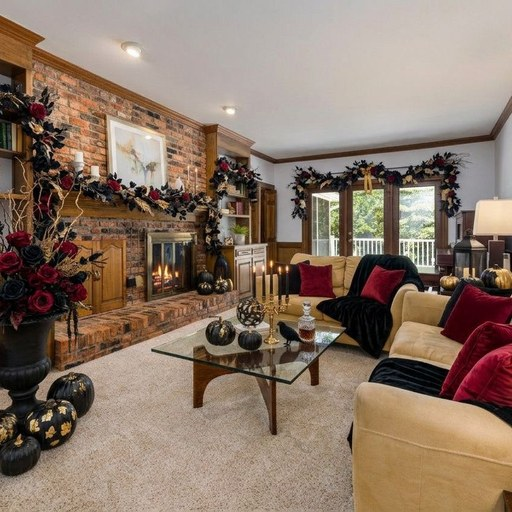
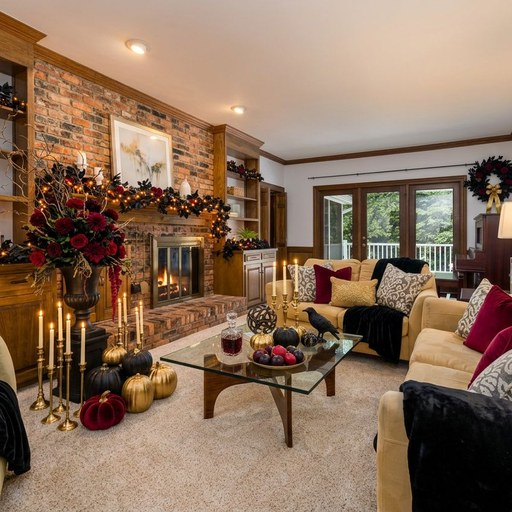
Onboarding Halloween → Christmas → empty room, paywall shows the open season, full test reset (build 117)

diff --git a/app/paywall.tsx b/app/paywall.tsx
@@ -30,6 +30,8 @@ import { planTier, tierRank } from "@/utils/planTier";
 import type { PlanResponse } from "@/types/api";
 import { usePostPurchaseStore } from "@/stores/postPurchaseStore";
 import { useStudioStore } from "@/stores/studioStore";
+import { useCatalogStore } from "@/stores/catalogStore";
+import { seasonMedia, seasonTitle } from "@/components/studio/seasonMedia";
 
 const U = theme.umber;
 
@@ -117,7 +119,13 @@ const SAMPLE_AFTER = require("@/assets/features/paywall_after.jpg");
 const INTRO_WAIT_MS = 1200;
 
 export default function PaywallScreen() {
-    const { t } = useTranslation();
+    const { t, i18n } = useTranslation();
+    // Build 117 (owner, 14 Oct): the paywall's sample is the open season when there is one
+    // (Halloween now, Christmas from 1 Nov), the empty room furnished otherwise.
+    const leadingSeason = useCatalogStore((s) => s.seasons[0] ?? null);
+    const ensureCatalog = useCatalogStore((s) => s.ensureLoaded);
+    // The launch offer can open before Studio ever asked for the catalogue; a cached copy paints at once.
+    useEffect(() => { void ensureCatalog(); }, [ensureCatalog]);
     const plans = useSubscriptionStore((s) => s.plans);
     const fetchPlans = useSubscriptionStore((s) => s.fetchPlans);
     const fetchSubscription = useSubscriptionStore((s) => s.fetchSubscription);
@@ -498,13 +506,15 @@ export default function PaywallScreen() {
     };
 
     // ── The moment that opened the screen ────────────────────────────
-    const proTools: PaywallHeroSpec = {
-        kind: "pro",
-        left: { image: require("@/assets/features/style_after.jpg"), label: t("studio.mode_style_transfer") },
-        // outdoor_card.png is an 8 KB diagonal-stripe placeholder — the
-        // "asset missing" pattern, not a photograph.
-        right: { image: require("@/assets/features/outdoor_after.jpg"), label: t("studio.mode_outdoor") },
-    };
+    // Build 117: the Style Transfer + Outdoor pair is retired from the paywall. Its place —
+    // and the default — is the open season's before/after, or the empty room without one.
+    const seasonPair = leadingSeason ? seasonMedia(leadingSeason) : null;
+    const proTools: PaywallHeroSpec = seasonPair
+        ? { kind: "pair", before: seasonPair.before as never, after: seasonPair.after as never }
+        : { kind: "pair", before: SAMPLE_BEFORE, after: SAMPLE_AFTER };
+    const seasonHeadline = seasonPair && leadingSeason
+        ? { title: seasonTitle(leadingSeason, i18n.language), sub: t("studio.feature_seasonal_desc") }
+        : null;
     const hero: PaywallHeroSpec = (() => {
         if (PRO_TOOL_SOURCES.has(source)) return proTools;
         if (source === SOURCE_FIRST_RESULT && ownAfter) {
@@ -521,8 +531,7 @@ export default function PaywallScreen() {
         if (source === SOURCE_CREDITS_EXHAUSTED && pendingPhoto) {
             return { kind: "photo", image: { uri: pendingPhoto }, chip: t("paywall.chip_your_room"), icon: "image-outline" };
         }
-        if (subscribed) return proTools;
-        return { kind: "pair", before: SAMPLE_BEFORE, after: SAMPLE_AFTER };
+        return proTools;
     })();
 
     /**
@@ -543,7 +552,7 @@ export default function PaywallScreen() {
                 sub: reloadNote,
             };
         }
-        if (PRO_TOOL_SOURCES.has(source)) return { title: t("paywall.two_things_headline"), sub: t("paywall.pro_tools_sub") };
+        if (PRO_TOOL_SOURCES.has(source)) return seasonHeadline ?? { title: t("paywall.hero_default_title"), sub: t("paywall.hero_default_sub") };
         if (source === SOURCE_FIRST_RESULT) return { title: t("paywall.hero_first_title"), sub: t("paywall.hero_first_sub") };
         if (source === SOURCE_RESULT_VIDEO) return { title: t("paywall.hero_video_title"), sub: t("paywall.hero_video_sub") };
         if (source === SOURCE_CREDITS_EXHAUSTED) {
@@ -551,7 +560,7 @@ export default function PaywallScreen() {
                 ? { title: t("paywall.hero_room_title"), sub: t("paywall.hero_room_sub") }
                 : { title: t("paywall.title_out_of_credits"), sub: t("paywall.hero_exhausted_sub") };
         }
-        return { title: t("paywall.hero_default_title"), sub: t("paywall.hero_default_sub") };
+        return seasonHeadline ?? { title: t("paywall.hero_default_title"), sub: t("paywall.hero_default_sub") };
     })();
 
     // ── Money lines ──────────────────────────────────────────────────

diff --git a/app/settings/help.tsx b/app/settings/help.tsx
@@ -7,7 +7,9 @@ import {
   ScrollView,
   TextInput,
   Linking,
+  Alert,
 } from "react-native";
+import * as SecureStore from "expo-secure-store";
 import { SafeAreaView } from "react-native-safe-area-context";
 import { router } from "expo-router";
 import { Ionicons } from "@expo/vector-icons";
@@ -436,11 +438,37 @@ export default function HelpScreen() {
               // The keys mirror app/index.tsx and hooks/useFirstResultPaywall.ts.
               const uid = useAuthStore.getState().user?.id;
               const firstRun = uid ? [clearFlag(`first_open:${uid}`), clearFlag(firstResultOfferFlag(uid))] : [];
-              Promise.all([resetTours(), resetReviewPrompt(), resetPushAsk(), ...firstRun]).then(() => {
-                Haptics.notificationAsync(Haptics.NotificationFeedbackType.Success);
-                setToursReset(true);
-                setTimeout(() => setToursReset(false), 2000);
-              });
+              const softReset = () => Promise.all([resetTours(), resetReviewPrompt(), resetPushAsk(), ...firstRun]);
+              // Build 117 (owner, 14 Oct): a second choice that also forgets the guest identity
+              // (device_key in the Keychain survives a reinstall), so the next screen is onboarding
+              // and a NEW guest account is created. The old account stays on the server; its
+              // gallery is no longer on this phone. Owner-only door, so it asks once, plainly.
+              Haptics.selectionAsync();
+              Alert.alert(
+                t("settings.reset_title", { defaultValue: "Test reset" }),
+                t("settings.reset_body", { defaultValue: "First-run screens, or a full reset that starts as a new guest (this account's gallery leaves this phone)." }),
+                [
+                  { text: t("common.cancel"), style: "cancel" },
+                  {
+                    text: t("settings.reset_first_run", { defaultValue: "First-run screens" }),
+                    onPress: () => softReset().then(() => {
+                      Haptics.notificationAsync(Haptics.NotificationFeedbackType.Success);
+                      setToursReset(true);
+                      setTimeout(() => setToursReset(false), 2000);
+                    }),
+                  },
+                  {
+                    text: t("settings.reset_full", { defaultValue: "Full reset (new guest)" }),
+                    style: "destructive",
+                    onPress: async () => {
+                      await softReset().catch(() => {});
+                      await SecureStore.deleteItemAsync("device_key").catch(() => {});
+                      await useAuthStore.getState().logout();
+                      router.replace("/(auth)/onboarding" as never);
+                    },
+                  },
+                ],
+              );
             }}
           >
             <Text

diff --git a/components/onboarding/Heroes.tsx b/components/onboarding/Heroes.tsx
@@ -71,6 +71,27 @@ function Tag({ label, side }: { label: string; side: "left" | "right" }) {
  * window narrows, the same construction as the result screen's slider.
  */
 export function WipeHero({ width, height, active }: { width: number; height: number; active: boolean }) {
+    return <PairWipe width={width} height={height} active={active} before={ROOM_BEFORE} after={ROOM_AFTER} />;
+}
+
+/**
+ * Build 117 (owner, 14 Oct): the three onboarding pages are three before/afters, the most
+ * striking first — Halloween, then Christmas (Classic), then the empty room furnished. The
+ * lab's own living room 3, the same pictures as the store's first two frames.
+ */
+const HALLOWEEN_BEFORE = require("@/assets/seasons/onb_halloween_before.jpg");
+const HALLOWEEN_AFTER = require("@/assets/seasons/onb_halloween_after.jpg");
+const CHRISTMAS_BEFORE = require("@/assets/seasons/onb_christmas_before.jpg");
+const CHRISTMAS_AFTER = require("@/assets/seasons/onb_christmas_after.jpg");
+
+export function HalloweenHero(p: { width: number; height: number; active: boolean }) {
+    return <PairWipe {...p} before={HALLOWEEN_BEFORE} after={HALLOWEEN_AFTER} />;
+}
+export function ChristmasHero(p: { width: number; height: number; active: boolean }) {
+    return <PairWipe {...p} before={CHRISTMAS_BEFORE} after={CHRISTMAS_AFTER} />;
+}
+
+function PairWipe({ width, height, active, before, after }: { width: number; height: number; active: boolean; before: number; after: number }) {
     const { t } = useTranslation();
     const reduce = useReduceMotion();
     const reveal = useRef(new Animated.Value(width)).current;
@@ -93,9 +114,9 @@ export function WipeHero({ width, height, active }: { width: number; height: num
 
     return (
         <View style={{ width, height, overflow: "hidden" }}>
-            <Image source={ROOM_AFTER} style={{ width, height }} contentFit="cover" />
+            <Image source={after} style={{ width, height }} contentFit="cover" />
             <Animated.View style={{ position: "absolute", top: 0, left: 0, bottom: 0, width: reveal, overflow: "hidden" }}>
-                <Image source={ROOM_BEFORE} style={{ width, height }} contentFit="cover" />
+                <Image source={before} style={{ width, height }} contentFit="cover" />
             </Animated.View>
             <Animated.View style={{
                 position: "absolute", top: 0, bottom: 0, width: 2, backgroundColor: U.accentBright,

diff --git a/app/(auth)/onboarding.tsx b/app/(auth)/onboarding.tsx
@@ -17,7 +17,7 @@ import * as SecureStore from "expo-secure-store";
 import { theme, track } from "@/config/theme";
 import { useAuthStore } from "@/stores/authStore";
 import { HexMark } from "@/components/brand/HexMark";
-import { ShowcaseHero, WallHero, WipeHero } from "@/components/onboarding/Heroes";
+import { WipeHero, HalloweenHero, ChristmasHero } from "@/components/onboarding/Heroes";
 
 const U = theme.umber;
 const V = theme.v2;
@@ -41,23 +41,25 @@ const V = theme.v2;
  * are unchanged.
  */
 const SLIDES = [
+    // Build 117 (owner, 14 Oct): Halloween first, Christmas second, the empty room third — the
+    // most striking before/afters we have; the per-mode showcase and the wall are retired.
     {
         id: "restyled",
         headlineKey: "onboarding.v2_slide1_headline",
         bodyKey: "onboarding.v2_slide1_body",
-        Hero: WipeHero,
+        Hero: HalloweenHero,
     },
     {
         id: "six-ways",
         headlineKey: "onboarding.v2_slide2_headline",
         bodyKey: "onboarding.v2_slide2_body",
-        Hero: ShowcaseHero,
+        Hero: ChristmasHero,
     },
     {
         id: "free-today",
         headlineKey: "onboarding.v2_slide3_headline",
         bodyKey: "onboarding.v2_slide3_body",
-        Hero: WallHero,
+        Hero: WipeHero,
     },
 ] as const;
 
